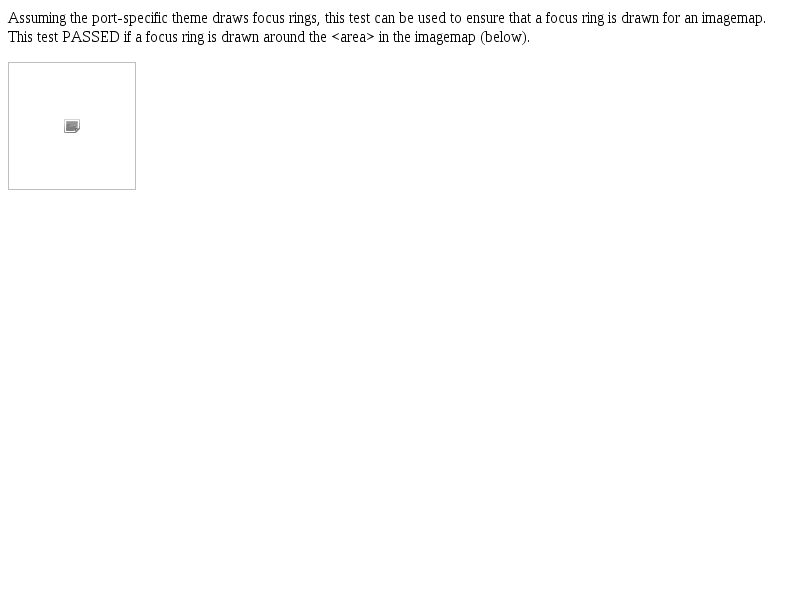
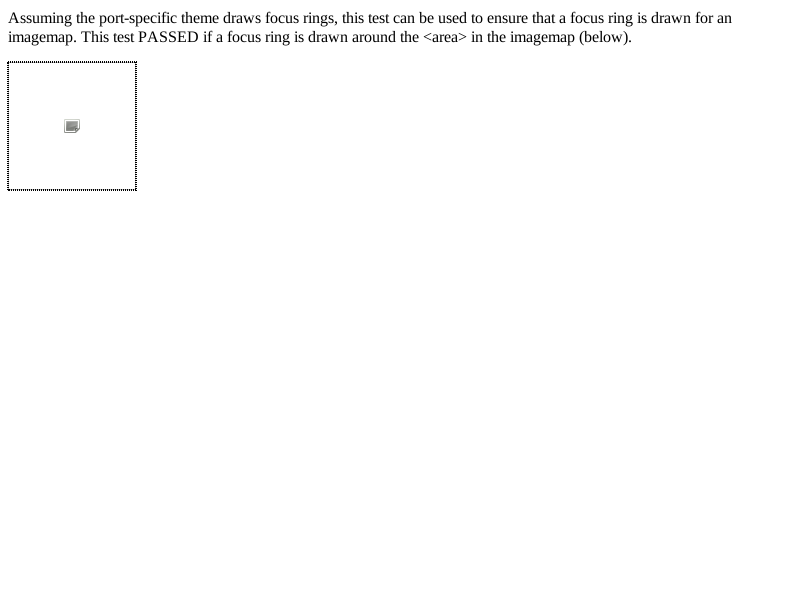
2010-12-07  Daniel Bates  <dbates@rim.com>
Reviewed by Martin Robinson.

        Implement focus ring support for image maps
        https://bugs.webkit.org/show_bug.cgi?id=50371

        Implement GraphicsContext::drawFocusRing(const Path&, ...) so as to support
        drawing a focus ring for image maps.

        Tests: fast/images/imagemap-circle-focus-ring.html
               fast/images/imagemap-polygon-focus-ring.html

        * platform/graphics/cairo/GraphicsContextCairo.cpp:
        (WebCore::adjustFocusRingColor): Added.
        (WebCore::adjustFocusRingLineWidth): Added.
        (WebCore::focusRingStrokeStyle): Added.
        (WebCore::GraphicsContext::drawFocusRing): Moved code for determining focus ring- color,
        line width and stroke style into functions adjustFocusRingColor(), adjustFocusRingLineWidth(),
        and focusRingStrokeStyle(), respectively. Implemented GraphicsContext::drawFocusRing(const Path&, ...).
2010-12-07  Daniel Bates  <dbates@rim.com>

        Reviewed by Martin Robinson.

        Implement focus ring support for image maps
        https://bugs.webkit.org/show_bug.cgi?id=50371

        Tests to ensure that we support drawing a focus ring for an image map.
        In particular, that the GTK port can draw a focus ring for an image map.

        * fast/images/imagemap-circle-focus-ring.html: Added.
        * fast/images/imagemap-polygon-focus-ring.html: Added.
        * platform/gtk/fast/images/imagemap-circle-focus-ring-expected.checksum: Added.
[…]

Changed region(s): [[0.0, 0.0, 0.9375, 0.09]]

diff --git a/LayoutTests/fast/images/imagemap-polygon-focus-ring.html b/LayoutTests/fast/images/imagemap-polygon-focus-ring.html
@@ -1,0 +1,10 @@
+<html>
+<body>
+<p>Assuming the port-specific theme draws focus rings, this test can be used to ensure that a focus ring is drawn for an &lt;area shape=&quot;polygon&quot;&gt;. This test PASSED if a cross-shaped focus ring is drawn around the &lt;area&gt; in the imagemap (below).</p>
+<map name="imagemap">
+    <area id="area" shape="polygon" coords="44,4,84,4,84,44,124,44,124,84,84,84,84,124,44,124,44,84,4,84,4,44,44,44" href="#dummy" />
+</map>
+<img src="dummy.gif" width="128" height="128" usemap="#imagemap" />
+<script>document.getElementById("area").focus()</script>
+</body>
+</html>

diff --git a/LayoutTests/fast/images/imagemap-circle-focus-ring.html b/LayoutTests/fast/images/imagemap-circle-focus-ring.html
@@ -1,0 +1,10 @@
+<html>
+<body>
+<p>Assuming the port-specific theme draws focus rings, this test can be used to ensure that a focus ring is drawn for an &lt;area shape=&quot;circle&quot;&gt;. This test PASSED if a circular-shaped focus ring is drawn around the &lt;area&gt; in the imagemap (below).</p>
+<map name="imagemap">
+    <area id="area" shape="circle" coords="64,64,61" href="#dummy" />
+</map>
+<img src="dummy.gif" width="128" height="128" usemap="#imagemap" />
+<script>document.getElementById("area").focus()</script>
+</body>
+</html>

diff --git a/WebCore/platform/graphics/cairo/GraphicsContextCairo.cpp b/WebCore/platform/graphics/cairo/GraphicsContextCairo.cpp
@@ -5,6 +5,7 @@
  * Copyright (C) 2008 Nuanti Ltd.
  * Copyright (C) 2009 Brent Fulgham <bfulgham@webkit.org>
  * Copyright (C) 2010 Igalia S.L.
+ * Copyright (C) Research In Motion Limited 2010. All rights reserved.
  *
  * Redistribution and use in source and binary forms, with or without
  * modification, are permitted provided that the following conditions
@@ -593,9 +594,46 @@ void GraphicsContext::clipPath(const Path& path, WindRule clipRule)
     cairo_clip(cr);
 }
 
-void GraphicsContext::drawFocusRing(const Path& path, int width, int offset, const Color& color)
+static inline void adjustFocusRingColor(Color& color)
 {
-    // FIXME: implement
+#if !PLATFORM(GTK)
+    // Force the alpha to 50%.  This matches what the Mac does with outline rings.
+    color.setRGB(makeRGBA(color.red(), color.green(), color.blue(), 127));
+#endif
+}
+
+static inline void adjustFocusRingLineWidth(int& width)
+{
+#if PLATFORM(GTK)
+    width = 2;
+#endif
+}
+
+static inline StrokeStyle focusRingStrokeStyle()
+{
+#if PLATFORM(GTK)
+    return DottedStroke;
+#else
+    return SolidStroke;
+#endif
+}
+
+void GraphicsContext::drawFocusRing(const Path& path, int width, int /* offset */, const Color& color)
+{
+    // FIXME: We should draw paths that describe a rectangle with rounded corners
+    // so as to be consistent with how we draw rectangular focus rings.
+    Color ringColor = color;
+    adjustFocusRingColor(ringColor);
+    adjustFocusRingLineWidth(width);
+
+    cairo_t* cr = m_data->cr;
+    cairo_save(cr);
+    appendWebCorePathToCairoContext(cr, path);
+    setSourceRGBAFromColor(cr, ringColor);
+    cairo_set_line_width(cr, width);
+    setPlatformStrokeStyle(focusRingStrokeStyle());
+    cairo_stroke(cr);
+    cairo_restore(cr);
 }
 
 void GraphicsContext::drawFocusRing(const Vector<IntRect>& rects, int width, int /* offset */, const Color& color)
@@ -632,10 +670,6 @@ void GraphicsContext::drawFocusRing(const Vector<IntRect>& rects, int width, int
 #else
     cairo_region_destroy(reg);
 #endif
-
-    setSourceRGBAFromColor(cr, color);
-    cairo_set_line_width(cr, 2.0f);
-    setPlatformStrokeStyle(DottedStroke);
 #else
     int radius = (width - 1) / 2;
     Path path;
@@ -645,13 +679,13 @@ void GraphicsContext::drawFocusRing(const Vector<IntRect>& rects, int width, int
         path.addRoundedRect(rects[i], FloatSize(radius, radius));
         appendWebCorePathToCairoContext(cr, path);
     }
-
-    // Force the alpha to 50%.  This matches what the Mac does with outline rings.
-    Color ringColor(color.red(), color.green(), color.blue(), 127);
+#endif
+    Color ringColor = color;
+    adjustFocusRingColor(ringColor);
+    adjustFocusRingLineWidth(width);
     setSourceRGBAFromColor(cr, ringColor);
     cairo_set_line_width(cr, width);
-    setPlatformStrokeStyle(SolidStroke);
-#endif
+    setPlatformStrokeStyle(focusRingStrokeStyle());
 
     cairo_set_operator(cr, CAIRO_OPERATOR_OVER);
     cairo_stroke_preserve(cr);
